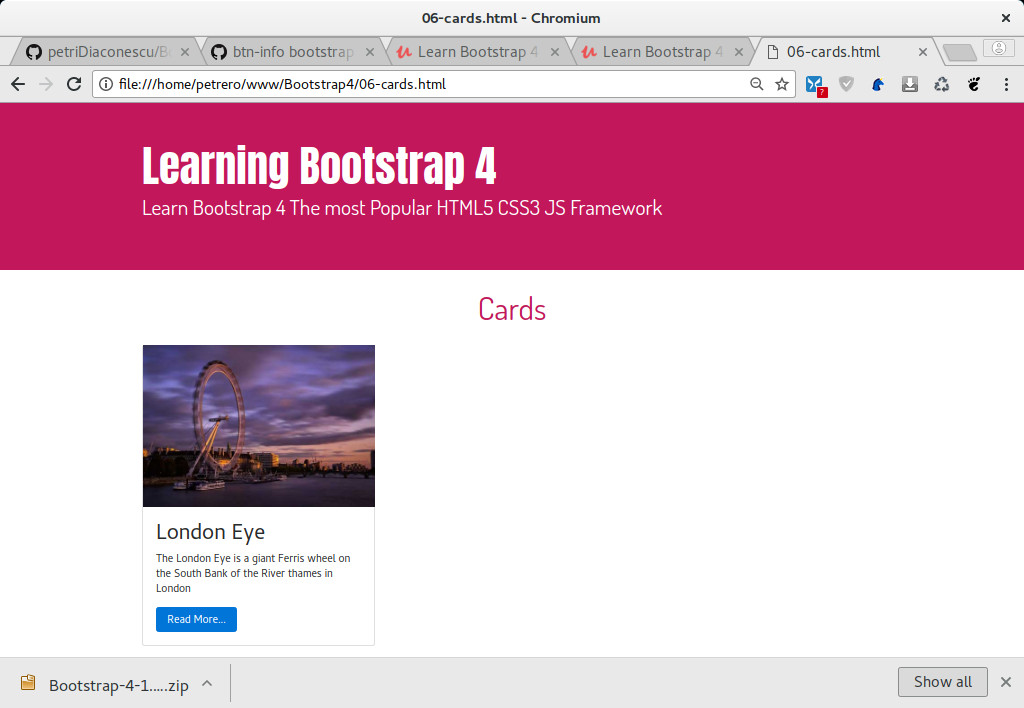
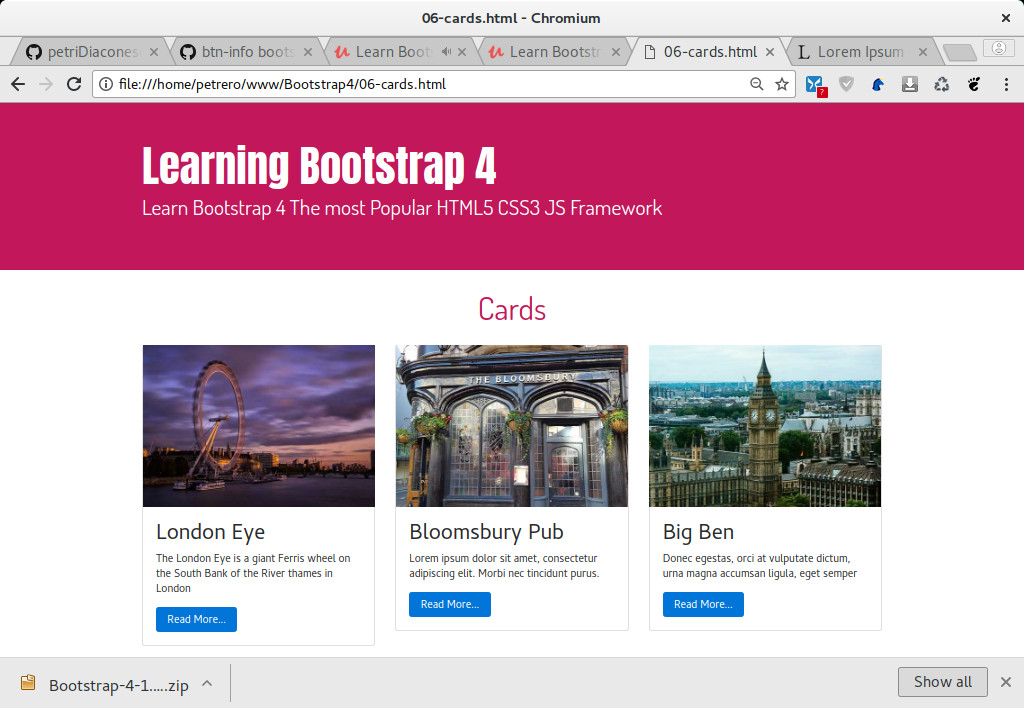
Two more cards.

diff --git a/06-cards.html b/06-cards.html
@@ -37,10 +37,26 @@
           </div>
         </div>
         <div class="col-6 col-md-4">
-
+          <div class="card">
+            <img src="img/card_02.jpg" alt="My Card" class="img-fluid"/>
+            
+            <div class="card-block">
+              <h2 class="card-title">Bloomsbury Pub</h2>
+              <p class="card-text">Lorem ipsum dolor sit amet, consectetur adipiscing elit. Morbi nec tincidunt purus. </p>
+              <a href="" class="btn btn-primary">Read More...</a>
+            </div>
+          </div>
         </div>
         <div class="col-6 col-md-4">
-
+          <div class="card">
+            <img src="img/card_03.jpg" alt="My Card" class="img-fluid"/>
+            
+            <div class="card-block">
+              <h2 class="card-title">Big Ben</h2>
+              <p class="card-text">Donec egestas, orci at vulputate dictum, urna magna accumsan ligula, eget semper</p>
+              <a href="" class="btn btn-primary">Read More...</a>
+            </div>
+          </div>
         </div>
       </div>
     </main>
